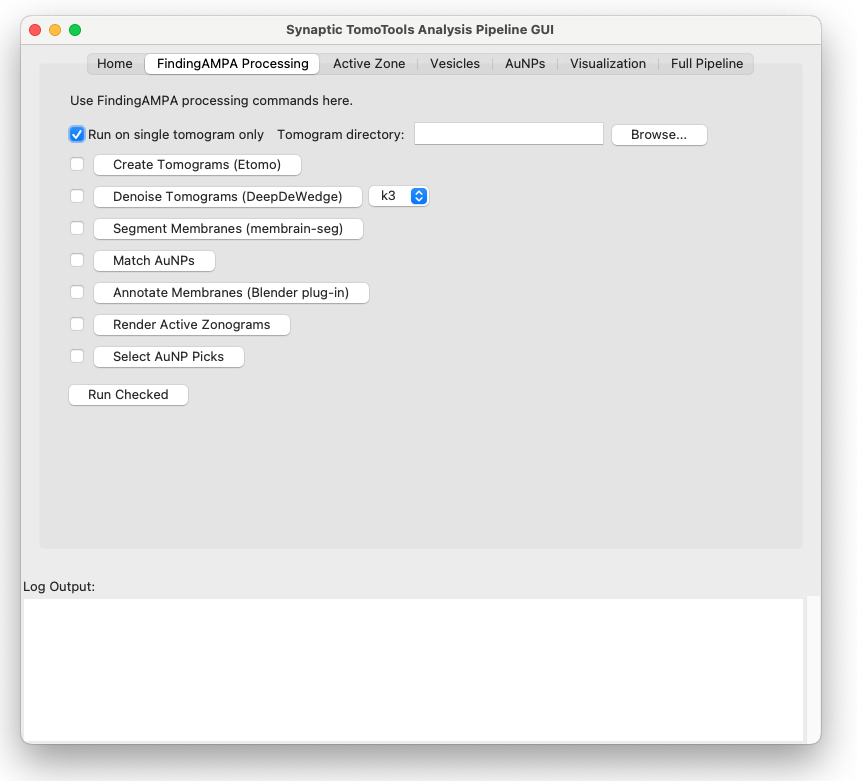
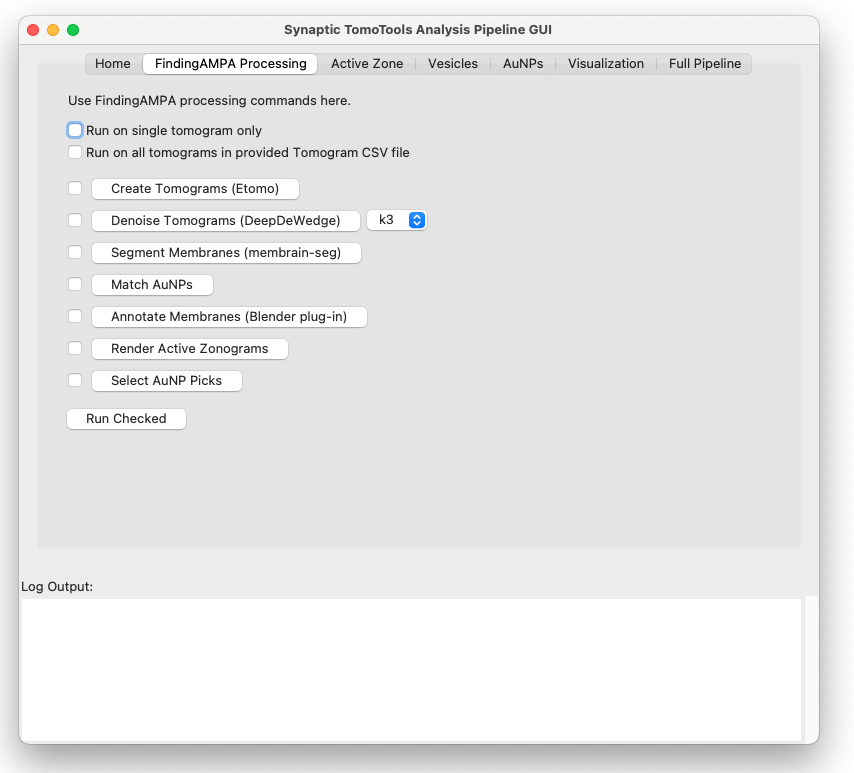
new fig for readme

diff --git a/scripts/processing_and_analysis_pipeline_gui.py b/scripts/processing_and_analysis_pipeline_gui.py
@@ -102,11 +102,15 @@ class AnalysisPipelineGUI(tk.Tk):
         ttk.Label(findingampa_tab, text="Use FindingAMPA processing commands here.").pack(anchor=tk.W, pady=(10, 0), padx=20)
         # --- Single tomogram mode UI ---
         self.findingampa_single_mode = tk.BooleanVar(value=False)
+        self.findingampa_all_mode = tk.BooleanVar(value=False)
         self.findingampa_single_dir = tk.StringVar()
         single_frame = ttk.Frame(findingampa_tab)
         single_frame.pack(anchor=tk.W, fill=tk.X, padx=20, pady=(10, 0))
         single_cb = ttk.Checkbutton(single_frame, text="Run on single tomogram only", variable=self.findingampa_single_mode, command=self._toggle_findingampa_single_dir)
         single_cb.pack(side=tk.LEFT)
+        # Add 'Run on all tomograms' checkbox below
+        all_cb = ttk.Checkbutton(findingampa_tab, text="Run on all tomograms in provided Tomogram CSV file", variable=self.findingampa_all_mode, command=self._toggle_findingampa_all_mode)
+        all_cb.pack(anchor=tk.W, padx=20, pady=(2, 10))
         # Directory input widgets (initially hidden)
         self.single_dir_label = ttk.Label(single_frame, text="Tomogram directory:")
         self.single_dir_entry = ttk.Entry(single_frame, textvariable=self.findingampa_single_dir, width=20)
@@ -187,15 +191,28 @@ class AnalysisPipelineGUI(tk.Tk):
         self._run_findingampa_command("select-aunp-picks")
 
     # Add this new method to toggle the directory input
+    def _toggle_findingampa_all_mode(self):
+        # Make checkboxes mutually exclusive
+        if self.findingampa_all_mode.get():
+            self.findingampa_single_mode.set(False)
+            self._toggle_findingampa_single_dir()
+        # If both are unchecked, default to all mode
+        elif not self.findingampa_single_mode.get():
+            self.findingampa_all_mode.set(True)
+
     def _toggle_findingampa_single_dir(self):
         if self.findingampa_single_mode.get():
             self.single_dir_label.pack(side=tk.LEFT, padx=(10, 0))
             self.single_dir_entry.pack(side=tk.LEFT, padx=(5, 0))
             self.single_dir_browse.pack(side=tk.LEFT, padx=5)
+            self.findingampa_all_mode.set(False)
         else:
             self.single_dir_label.pack_forget()
             self.single_dir_entry.pack_forget()
             self.single_dir_browse.pack_forget()
+            # If both are unchecked, default to all mode
+            if not self.findingampa_all_mode.get():
+                self.findingampa_all_mode.set(True)
     # Add this new method to browse for a directory
     def _browse_findingampa_single_dir(self):
         path = filedialog.askdirectory(title="Select tomogram directory", initialdir=".")
@@ -217,7 +234,7 @@ class AnalysisPipelineGUI(tk.Tk):
             self._log(f"Running (single tomogram): {' '.join(cli)} in {self.findingampa_single_dir.get()}\n")
             env = os.environ.copy()
             threading.Thread(target=self._run_subprocess, args=(cli, env, self.findingampa_single_dir.get())).start()
-        else:
+        elif self.findingampa_all_mode.get() or not self.findingampa_single_mode.get():
             # Run for all tomograms in CSV, using best_alignment dir for each
             csv_path = self.csv_path.get()
             root_dir = self.root_dir.get()
